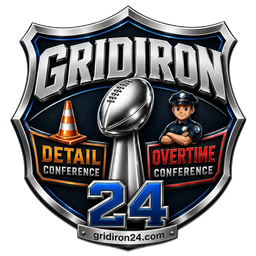
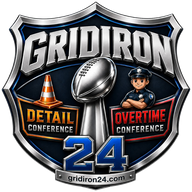
Put the new crest on home with a top bleed and smaller scale.
Knock out the white studio backdrop, pull the mark under the translucent header, and shrink it 20%.

diff --git a/public/home.html b/public/home.html
@@ -56,20 +56,20 @@
         linear-gradient(180deg, #eef2f8 0%, #e8ecf1 100%);
     }
     body[data-page="home"] .topbar {
-      border-bottom-color: rgba(47, 109, 255, 0.32);
+      position: relative;
+      z-index: 40;
+      border-bottom: 0;
       background:
-        radial-gradient(ellipse 70% 140% at 50% -40%, rgba(47, 109, 255, 0.28), transparent 60%),
-        linear-gradient(180deg, #152038 0%, #0c121f 100%);
-      box-shadow:
-        0 10px 28px rgba(0, 0, 0, 0.55),
-        0 0 40px rgba(47, 109, 255, 0.1);
+        linear-gradient(180deg, rgba(15, 24, 42, 0.94) 0%, rgba(10, 16, 28, 0.55) 70%, rgba(10, 16, 28, 0) 100%);
+      box-shadow: none;
+      backdrop-filter: blur(10px) saturate(140%);
+      -webkit-backdrop-filter: blur(10px) saturate(140%);
     }
     html[data-theme="day"] body[data-page="home"] .topbar {
-      border-bottom-color: rgba(31, 94, 240, 0.22);
+      border-bottom: 0;
       background:
-        radial-gradient(ellipse 70% 140% at 50% -40%, rgba(31, 94, 240, 0.12), transparent 60%),
-        linear-gradient(180deg, #ffffff 0%, #e8eef8 100%);
-      box-shadow: 0 8px 22px rgba(20, 24, 31, 0.1);
+        linear-gradient(180deg, rgba(255, 255, 255, 0.94) 0%, rgba(238, 242, 248, 0.55) 70%, rgba(238, 242, 248, 0) 100%);
+      box-shadow: none;
     }
     body[data-page="home"] .nav a {
       font-size: 0.92rem;
@@ -81,24 +81,30 @@
     }
 
     .hq-hero {
+      position: relative;
+      z-index: 5;
       text-align: center;
-      padding: 1.85rem 0 1.65rem;
+      margin-top: -3.35rem;
+      padding: 0 0 1.35rem;
+      overflow: visible;
       border-bottom: 1px solid rgba(47, 109, 255, 0.28);
       background:
-        radial-gradient(ellipse 75% 90% at 50% 20%, rgba(47, 109, 255, 0.2), transparent 62%),
+        radial-gradient(ellipse 75% 90% at 50% 28%, rgba(47, 109, 255, 0.2), transparent 62%),
         radial-gradient(ellipse 50% 60% at 18% 90%, rgba(255, 122, 24, 0.08), transparent 55%),
         radial-gradient(ellipse 50% 60% at 82% 90%, rgba(226, 35, 42, 0.08), transparent 55%),
         transparent;
     }
     .hq-hero img {
-      width: min(560px, 86vw);
+      width: min(448px, 69vw);
       height: auto;
       display: block;
       margin: 0 auto;
-      filter: drop-shadow(0 14px 30px rgba(0, 0, 0, 0.75));
+      position: relative;
+      z-index: 6;
+      filter: drop-shadow(0 18px 34px rgba(0, 0, 0, 0.78));
     }
     html[data-theme="day"] .hq-hero img {
-      filter: drop-shadow(0 10px 22px rgba(20, 24, 31, 0.18));
+      filter: drop-shadow(0 12px 24px rgba(20, 24, 31, 0.2));
     }
     .hq-hero .tag {
       margin: 1.25rem 0 0;
@@ -868,7 +874,7 @@
   </header>
 
   <section class="hq-hero shell">
-    <img src="/assets/gridiron24-league.png?v=4" alt="GridIron 24" />
+    <img src="/assets/gridiron24-league.png?v=5" alt="GridIron 24" width="961" height="1002" decoding="async" />
     <p class="tag">
       <span class="t">24 Teams</span><span class="sep">·</span><span class="d">Two Conferences</span><span class="sep">·</span><span class="c">One Champion</span>
     </p>
